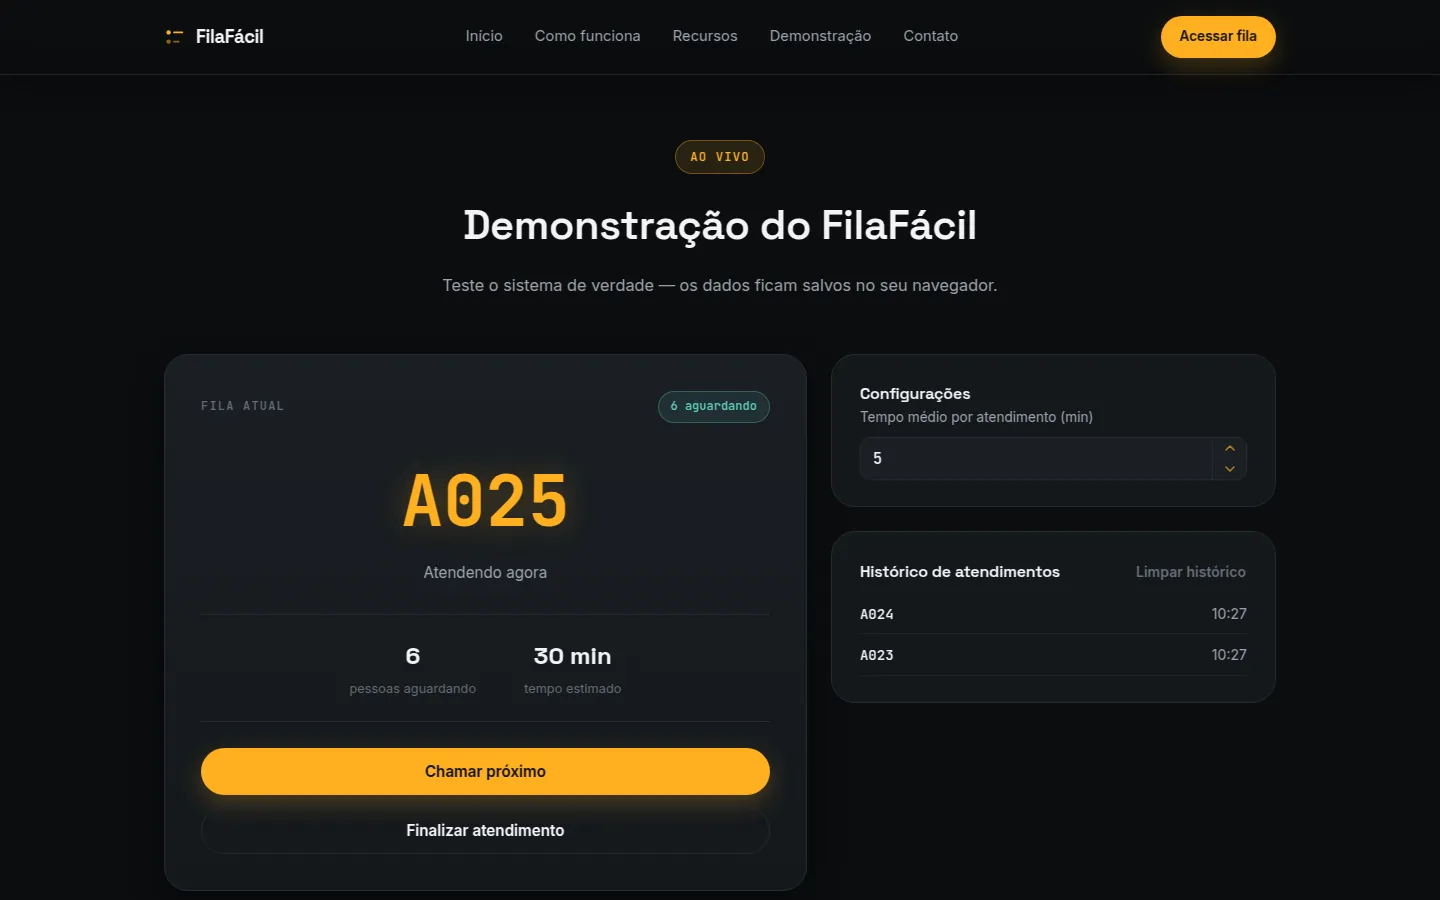
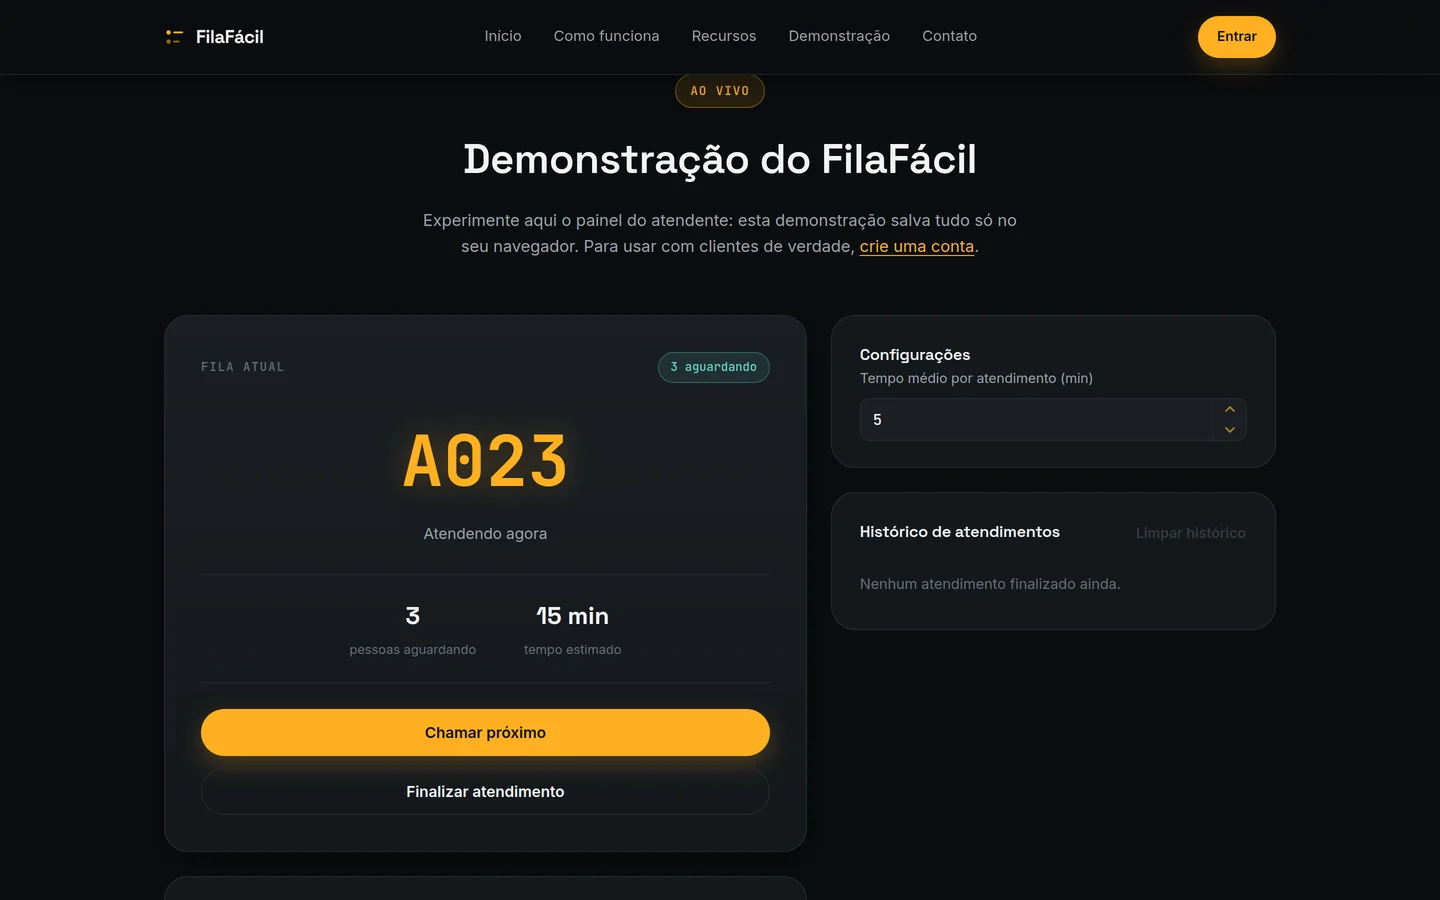
Connect the app to the API and link it from the landing page
app.html and tv.html now use https://fila-facil-api.onrender.com.
The landing page gets "Entrar" and "Criar conta grátis", the steps and
features describe the real system, and the demo explains it only
saves in the browser. Long waits show as hours, and the README covers
the new system with screenshots (sample data).

Assisted-by: Claude:Opus 5.5 [Claude-Code]

diff --git a/index.html b/index.html
@@ -53,7 +53,7 @@
     </nav>
 
     <div class="header__actions">
-      <a href="#demonstracao" class="btn btn--primary btn--sm">Acessar fila</a>
+      <a href="app.html" class="btn btn--primary btn--sm">Entrar</a>
       <button class="menu-toggle" id="menuToggle" aria-label="Abrir menu" aria-expanded="false" aria-controls="mobileNav">
         <span></span><span></span><span></span>
       </button>
@@ -66,7 +66,7 @@
     <a href="#recursos" class="mobile-nav__link">Recursos</a>
     <a href="#demonstracao" class="mobile-nav__link">Demonstração</a>
     <a href="#contato" class="mobile-nav__link">Contato</a>
-    <a href="#demonstracao" class="btn btn--primary btn--block">Acessar fila</a>
+    <a href="app.html" class="btn btn--primary btn--block">Entrar</a>
   </div>
 </header>
 
@@ -80,7 +80,7 @@
       <h1 class="hero__title fade-in">Sua fila organizada<br>de forma simples.</h1>
       <p class="hero__text fade-in">Gerencie senhas, acompanhe atendimentos e reduza a confusão das filas usando apenas uma solução simples e intuitiva.</p>
       <div class="hero__actions fade-in">
-        <a href="#demonstracao" class="btn btn--primary btn--lg">Começar agora</a>
+        <a href="app.html?criar=negocio" class="btn btn--primary btn--lg">Criar conta grátis</a>
         <a href="#demonstracao" class="btn btn--ghost btn--lg">Ver demonstração</a>
       </div>
 
@@ -114,18 +114,18 @@
       <div class="steps">
         <article class="step-card reveal">
           <div class="step-card__index">01</div>
-          <h3 class="step-card__title">Gere a senha</h3>
-          <p class="step-card__text">O cliente recebe uma senha automaticamente, sem complicação.</p>
+          <h3 class="step-card__title">Pegue a senha</h3>
+          <p class="step-card__text">O cliente lê o QR code com o celular e pega a senha, sem papel e sem aglomeração no balcão.</p>
         </article>
         <article class="step-card reveal">
           <div class="step-card__index">02</div>
           <h3 class="step-card__title">Acompanhe a fila</h3>
-          <p class="step-card__text">O sistema mostra em tempo real quantas pessoas estão aguardando.</p>
+          <p class="step-card__text">No celular, o cliente vê quantas pessoas faltam e quanto tempo deve esperar.</p>
         </article>
         <article class="step-card reveal">
           <div class="step-card__index">03</div>
           <h3 class="step-card__title">Chame o próximo</h3>
-          <p class="step-card__text">O atendente chama a próxima senha com apenas um clique.</p>
+          <p class="step-card__text">Um clique chama a próxima senha: o celular do cliente toca e a TV mostra o número.</p>
         </article>
       </div>
     </div>
@@ -143,10 +143,10 @@
       <div class="grid grid--3">
         <article class="feature-card reveal">
           <div class="feature-card__icon">
-            <svg viewBox="0 0 24 24" fill="none"><rect x="4" y="4" width="16" height="16" rx="3" stroke="currentColor" stroke-width="1.6"/><path d="M8 12h8M8 8.5h5M8 15.5h4" stroke="currentColor" stroke-width="1.6" stroke-linecap="round"/></svg>
+            <svg viewBox="0 0 24 24" fill="none"><rect x="7" y="2.5" width="10" height="19" rx="2.5" stroke="currentColor" stroke-width="1.6"/><path d="M11 18.5h2" stroke="currentColor" stroke-width="1.6" stroke-linecap="round"/><path d="M10 8.5h4M10 11.5h4" stroke="currentColor" stroke-width="1.6" stroke-linecap="round"/></svg>
           </div>
-          <h3 class="feature-card__title">Senhas automáticas</h3>
-          <p class="feature-card__text">Geração automática de senhas, sem intervenção manual.</p>
+          <h3 class="feature-card__title">Senha pelo celular</h3>
+          <p class="feature-card__text">O cliente lê o QR code, pega a senha e acompanha a vez no próprio celular.</p>
         </article>
 
         <article class="feature-card reveal">
@@ -154,7 +154,7 @@
             <svg viewBox="0 0 24 24" fill="none"><circle cx="12" cy="12" r="8" stroke="currentColor" stroke-width="1.6"/><path d="M12 7v5l3.5 2" stroke="currentColor" stroke-width="1.6" stroke-linecap="round"/></svg>
           </div>
           <h3 class="feature-card__title">Fila em tempo real</h3>
-          <p class="feature-card__text">Atualização instantânea da fila para todos que acompanham.</p>
+          <p class="feature-card__text">Atendente, clientes e TV veem a mesma fila, atualizada a cada poucos segundos.</p>
         </article>
 
         <article class="feature-card reveal">
@@ -162,7 +162,7 @@
             <svg viewBox="0 0 24 24" fill="none"><path d="M6 12h5l1.5-3 2 6L16 12h2" stroke="currentColor" stroke-width="1.6" stroke-linecap="round" stroke-linejoin="round"/><circle cx="12" cy="12" r="9" stroke="currentColor" stroke-width="1.6"/></svg>
           </div>
           <h3 class="feature-card__title">Chamar próximo</h3>
-          <p class="feature-card__text">Um botão simples para chamar o próximo cliente da fila.</p>
+          <p class="feature-card__text">Um botão chama a próxima senha, e o cliente recebe o aviso com som e vibração.</p>
         </article>
 
         <article class="feature-card reveal">
@@ -170,23 +170,23 @@
             <svg viewBox="0 0 24 24" fill="none"><path d="M12 22c5.5 0 10-4.5 10-10S17.5 2 12 2 2 6.5 2 12s4.5 10 10 10Z" stroke="currentColor" stroke-width="1.6"/><path d="M12 7v5l4 2" stroke="currentColor" stroke-width="1.6" stroke-linecap="round"/></svg>
           </div>
           <h3 class="feature-card__title">Tempo estimado</h3>
-          <p class="feature-card__text">Estimativa aproximada do tempo de espera para cada cliente.</p>
+          <p class="feature-card__text">Estimativa de espera calculada com o tempo real de atendimento do dia.</p>
         </article>
 
         <article class="feature-card reveal">
           <div class="feature-card__icon">
-            <svg viewBox="0 0 24 24" fill="none"><path d="M4 6h16M4 12h16M4 18h10" stroke="currentColor" stroke-width="1.6" stroke-linecap="round"/></svg>
+            <svg viewBox="0 0 24 24" fill="none"><path d="M4 20h16" stroke="currentColor" stroke-width="1.6" stroke-linecap="round"/><path d="M7 16v-4M12 16V7M17 16v-6" stroke="currentColor" stroke-width="1.6" stroke-linecap="round"/></svg>
           </div>
-          <h3 class="feature-card__title">Histórico</h3>
-          <p class="feature-card__text">Visualização completa dos atendimentos já realizados.</p>
+          <h3 class="feature-card__title">Relatório do dia</h3>
+          <p class="feature-card__text">Atendimentos, tempo de espera, quem não veio e horários de pico, com planilha.</p>
         </article>
 
         <article class="feature-card reveal">
           <div class="feature-card__icon">
-            <svg viewBox="0 0 24 24" fill="none"><rect x="5" y="4" width="14" height="17" rx="2" stroke="currentColor" stroke-width="1.6"/><path d="M9 9h6M9 13h6M9 17h3" stroke="currentColor" stroke-width="1.6" stroke-linecap="round"/></svg>
+            <svg viewBox="0 0 24 24" fill="none"><rect x="2.5" y="4" width="19" height="13" rx="2" stroke="currentColor" stroke-width="1.6"/><path d="M8 21h8M12 17v4" stroke="currentColor" stroke-width="1.6" stroke-linecap="round"/></svg>
           </div>
-          <h3 class="feature-card__title">Persistência local</h3>
-          <p class="feature-card__text">Os dados continuam disponíveis mesmo após atualizar a página.</p>
+          <h3 class="feature-card__title">Tela de chamada</h3>
+          <p class="feature-card__text">Uma página para TV ou monitor, com a senha em letras grandes, som e voz.</p>
         </article>
       </div>
     </div>
@@ -198,7 +198,7 @@
       <div class="section__head">
         <p class="eyebrow reveal">Ao vivo</p>
         <h2 class="section__title reveal">Demonstração do FilaFácil</h2>
-        <p class="section__subtitle reveal">Teste o sistema de verdade — os dados ficam salvos no seu navegador.</p>
+        <p class="section__subtitle reveal">Experimente aqui o painel do atendente: esta demonstração salva tudo só no seu navegador. Para usar com clientes de verdade, <a href="app.html?criar=negocio" class="link-accent">crie uma conta</a>.</p>
       </div>
 
       <div class="demo reveal">
@@ -305,7 +305,7 @@
     <div class="container cta__inner reveal">
       <h2 class="cta__title">Pronto para organizar sua fila?</h2>
       <p class="cta__text">Comece agora e transforme a experiência de atendimento do seu negócio.</p>
-      <a href="#demonstracao" class="btn btn--primary btn--lg">Começar agora</a>
+      <a href="app.html?criar=negocio" class="btn btn--primary btn--lg">Criar conta grátis</a>
     </div>
   </section>
 
@@ -394,6 +394,7 @@
       <a href="#recursos">Recursos</a>
       <a href="#demonstracao">Demonstração</a>
       <a href="#contato">Contato</a>
+      <a href="app.html">Entrar</a>
     </nav>
   </div>
   <div class="container">

diff --git a/app.js b/app.js
@@ -68,6 +68,14 @@
     return `${Math.round(value)} min`;
   }
 
+  function waitText(m) {
+    if (!m) return null;
+    if (m < 60) return `~${m} min`;
+    const h = Math.floor(m / 60);
+    const r = m % 60;
+    return r ? `~${h} h ${r} min` : `~${h} h`;
+  }
+
   function hhmm(iso) {
     return iso ? new Date(iso).toLocaleTimeString("pt-BR", { hour: "2-digit", minute: "2-digit" }) : "—";
   }
@@ -198,9 +206,9 @@
     const values = {
       name: fila.name,
       waiting: `${people(fila.waiting)} aguardando`,
-      estimate: estimate ? `espera de ~${estimate} min` : "sem espera agora",
+      estimate: estimate ? `espera de ${waitText(estimate)}` : "sem espera agora",
       waitingNum: String(fila.waiting),
-      estimateNum: estimate ? `~${estimate} min` : "sem espera",
+      estimateNum: estimate ? waitText(estimate) : "sem espera",
       current: fila.current ? fila.current.code : "—",
     };
     document.querySelectorAll("[data-fila]").forEach((node) => {
@@ -415,7 +423,7 @@
     $("mtProgress").hidden = t.status !== "WAITING";
     if (t.status === "WAITING") {
       $("mtCurrent").textContent = t.current || "—";
-      $("mtWait").textContent = t.waitMinutes ? `~${t.waitMinutes} min` : "agora";
+      $("mtWait").textContent = waitText(t.waitMinutes) || "agora";
       const pct = maxAhead ? ((maxAhead - t.ahead + 1) / (maxAhead + 1)) * 100 : 100;
       $("mtProgress").firstElementChild.style.width = `${Math.max(8, pct)}%`;
     }
@@ -542,7 +550,7 @@
       info.append(el("strong", null, t.establishment.name));
       const line = t.status === "CALLED"
         ? "É a sua vez! Dirija-se ao atendimento."
-        : `${t.ahead === 0 ? "Você é o próximo" : `${people(t.ahead)} na sua frente`} · ${t.waitMinutes ? `~${t.waitMinutes} min` : "agora"}`;
+        : `${t.ahead === 0 ? "Você é o próximo" : `${people(t.ahead)} na sua frente`} · ${waitText(t.waitMinutes) || "agora"}`;
       info.append(el("span", null, line));
       card.append(info, el("span", "active-ticket__go", "Acompanhar ›"));
       card.addEventListener("click", () => showTicket(t.id, t));

diff --git a/app.html b/app.html
@@ -5,7 +5,7 @@
 <meta name="viewport" content="width=device-width, initial-scale=1.0">
 <title>FilaFácil</title>
 <meta name="description" content="Entre na sua conta do FilaFácil para pegar senha pelo celular ou organizar a fila do seu negócio.">
-<meta name="filafacil-api" content="">
+<meta name="filafacil-api" content="https://fila-facil-api.onrender.com">
 <meta name="theme-color" content="#0b0d0f">
 <link rel="icon" type="image/png" sizes="512x512" href="favicon.png">
 <link rel="apple-touch-icon" href="favicon.png">

diff --git a/tv.html b/tv.html
@@ -4,7 +4,7 @@
 <meta charset="UTF-8">
 <meta name="viewport" content="width=device-width, initial-scale=1.0">
 <title>FilaFácil — Tela de chamada</title>
-<meta name="filafacil-api" content="">
+<meta name="filafacil-api" content="https://fila-facil-api.onrender.com">
 <meta name="theme-color" content="#0b0d0f">
 <link rel="icon" type="image/png" sizes="512x512" href="favicon.png">
 <link rel="preconnect" href="https://fonts.googleapis.com">

diff --git a/style.css b/style.css
@@ -385,6 +385,8 @@ input { font-family: inherit; }
   color: var(--text-dim);
   font-size: 1.02rem;
 }
+.link-accent { color: var(--accent); text-decoration: underline; text-underline-offset: 3px; }
+.link-accent:hover { color: var(--accent-strong); }
 
 .grid { display: grid; gap: 22px; }
 .grid--3 { grid-template-columns: repeat(3, 1fr); }

diff --git a/README.md b/README.md
@@ -2,52 +2,80 @@
 
 ![Página inicial do FilaFácil](docs/inicio.webp)
 
-**Site:** https://hriel123.github.io/fila-facil1/
+**Site:** https://hriel123.github.io/fila-facil1/ · **Entrar:** https://hriel123.github.io/fila-facil1/app.html
 
-Sistema simples de gestão de filas para pequenos negócios: emite senhas, mostra a fila em tempo real e chama o próximo cliente com um clique. Pensado para barbearias, salões, oficinas, lanchonetes, pequenos comércios, recepções, clínicas e eventos.
+Sistema de gestão de filas para pequenos negócios. O estabelecimento cria a conta e mostra um QR code; o cliente pega a senha pelo celular e acompanha a vez; o atendente chama o próximo com um clique, e o celular do cliente toca. Pensado para barbearias, salões, oficinas, lanchonetes, pequenos comércios, recepções, clínicas e eventos.
 
 ## Como funciona
 
-1. **Gere a senha:** o cliente recebe uma senha automaticamente.
-2. **Acompanhe a fila:** o sistema mostra quantas pessoas estão aguardando.
-3. **Chame o próximo:** o atendente chama a próxima senha com um clique.
+1. **Pegue a senha:** o cliente lê o QR code do estabelecimento, entra ou cria a conta e toca em "Pegar senha".
+2. **Acompanhe a fila:** no celular, ele vê quantas pessoas faltam e a espera estimada.
+3. **Chame o próximo:** no painel, o atendente chama a próxima senha. O celular do cliente toca e vibra, e a TV mostra o número.
+
+![Painel de atendimento](docs/painel.webp)
 
 ## Recursos
 
-- Senhas automáticas (A001, A002, ...)
-- Fila em tempo real, com quantidade de pessoas aguardando
-- Chamar o próximo e finalizar atendimento
-- Tempo estimado de espera, a partir do tempo médio por atendimento configurável
-- Histórico de atendimentos
-- Persistência local: os dados ficam salvos no navegador (`localStorage`) e continuam lá ao recarregar a página
+**Para o estabelecimento**
+
+- Painel de atendimento: chamar o próximo (ou tecla N), chamar de novo, finalizar e marcar quem não veio
+- Senha avulsa para quem chega sem celular
+- Abrir e fechar a fila para novas senhas
+- QR code da fila e cartaz pronto para imprimir
+- Tela de chamada para TV, com a senha em letras grandes, som e voz
+- Relatório do dia: senhas emitidas, atendidas, não vieram, desistências, espera média e maior espera, tempo médio de atendimento, senhas por horário e planilha (CSV)
+- Ajustes: nome, letra da senha e tempo médio por atendimento
+
+**Para o cliente**
+
+- Senha pelo celular, sem papel
+- Posição na fila e espera estimada, atualizadas sozinhas
+- Aviso de "É a sua vez!" com som, vibração e notificação
+- Sair da fila e histórico das senhas
+
+<img src="docs/celular.webp" alt="Senha do cliente no celular" width="300">
+
+A espera estimada usa o tempo médio configurado até haver 3 atendimentos no dia; depois, a média real do dia. A numeração das senhas recomeça do 1 todo dia.
+
+![Tela de chamada para TV](docs/tv.webp)
+
+Os prints do sistema usam dados de exemplo.
 
 ## Demonstração
 
-O site tem uma demonstração funcional na seção "Demonstração do FilaFácil":
+A página inicial mantém uma demonstração do painel que funciona sem conta e salva os dados só no navegador:
 
-![Demonstração da fila em uso](docs/demonstracao.webp)
+![Demonstração do painel](docs/demonstracao.webp)
 
 ## Tecnologias
 
-HTML, CSS e JavaScript puros, sem frameworks nem dependências. Hospedado no GitHub Pages.
+- **Site:** HTML, CSS e JavaScript puros, sem frameworks, no GitHub Pages
+- **API:** Node.js com Express 5, Prisma e PostgreSQL (Neon), no Render
+- **Login:** JWT e bcrypt
 
 ## Estrutura
 
 ```
-index.html   página e demonstração
-style.css    estilos
-script.js    lógica da fila (senhas, chamada, histórico, tempo estimado, localStorage)
+index.html   página de apresentação e demonstração (style.css, script.js)
+app.html     sistema: login, área do cliente e painel do estabelecimento (app.css, app.js)
+tv.html      tela de chamada para TV (tv.js)
+api.js       acesso à API, sessão e som de chamada
+sw.js        mostra a notificação "É a sua vez!"
+backend/     API: rotas, schema do Prisma e migrations (veja backend/README.md)
+render.yaml  serviço da API no Render
 *.jpg        imagens dos tipos de negócio
 docs/        imagens deste README
 ```
 
 ## Rodar localmente
 
-Basta abrir o `index.html` no navegador, ou servir a pasta:
+A página inicial e a demonstração abrem direto no navegador, ou servindo a pasta:
 
 ```bash
 python3 -m http.server 8000
 ```
+
+Para o sistema com login, suba a API e o banco seguindo o [backend/README.md](backend/README.md).
 
 ## Autor
 
